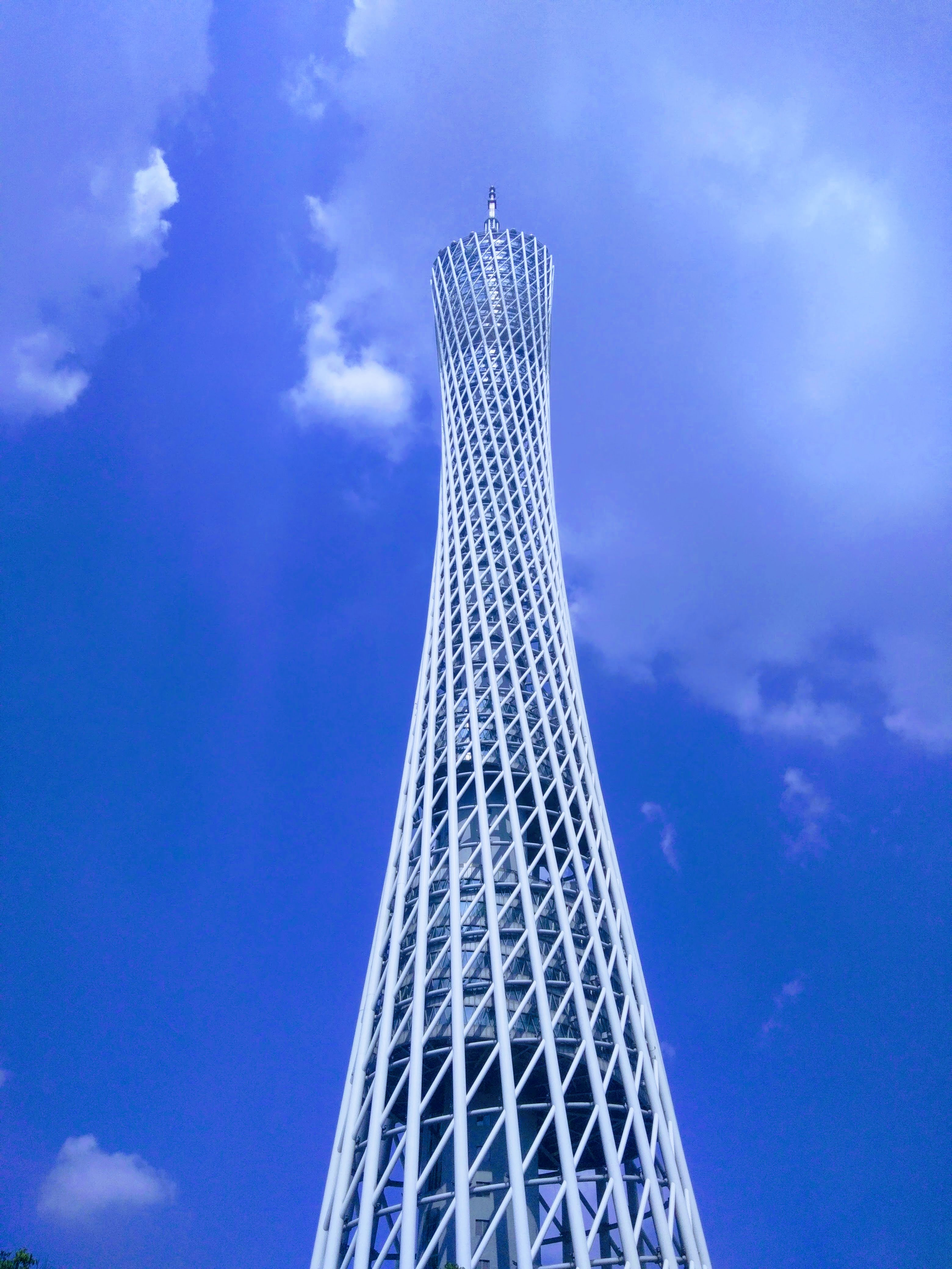
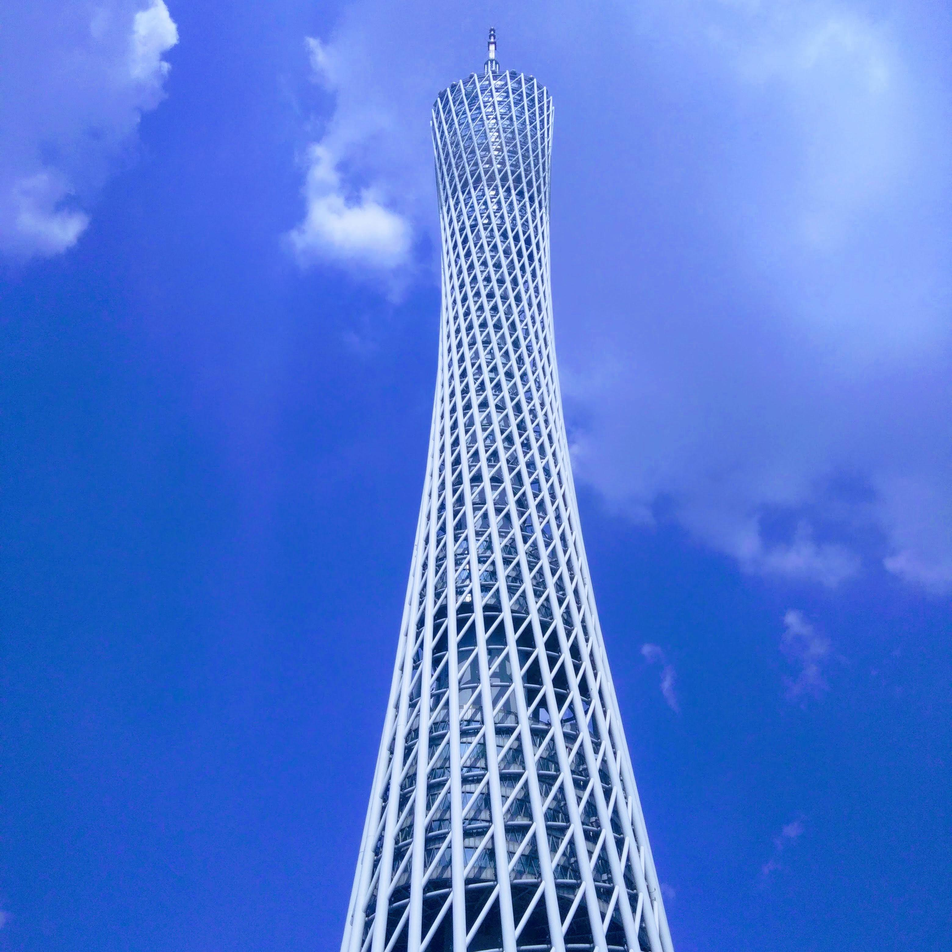
add photos

diff --git a/tool.py b/tool.py
@@ -1,0 +1,255 @@
+#coding: utf-8
+from PIL import Image
+import shutil
+import os
+import sys
+import json
+from datetime import datetime
+#from ImageProcess import Graphics
+
+class Graphics:  
+    '''图片处理类
+    
+    参数
+    -------
+    infile: 输入文件路径
+    outfile: 输出文件路径
+    '''
+    def __init__(self, infile, outfile):
+        self.infile = infile
+        self.outfile = outfile
+
+    def fixed_size(self, width, height):  
+        """按照固定尺寸处理图片"""  
+        im = Image.open(self.infile)  
+        out = im.resize((width, height),Image.ANTIALIAS)  
+        out.save(self.outfile)  
+
+
+    def resize_by_width(self, w_divide_h):  
+        """按照宽度进行所需比例缩放"""  
+        im = Image.open(self.infile)  
+        (x, y) = im.size   
+        x_s = x  
+        y_s = x/w_divide_h  
+        out = im.resize((x_s, y_s), Image.ANTIALIAS)   
+        out.save(self.outfile)  
+
+
+    def resize_by_height(self, w_divide_h):  
+        """按照高度进行所需比例缩放"""  
+        im = Image.open(self.infile)  
+        (x, y) = im.size   
+        x_s = y*w_divide_h  
+        y_s = y  
+        out = im.resize((x_s, y_s), Image.ANTIALIAS)   
+        out.save(self.outfile)  
+
+
+    def resize_by_size(self, size):  
+        """按照生成图片文件大小进行处理(单位KB)"""  
+        size *= 1024  
+        im = Image.open(self.infile)  
+        size_tmp = os.path.getsize(self.infile)  
+        q = 100  
+        while size_tmp > size and q > 0:  
+            print (q)  
+            out = im.resize(im.size, Image.ANTIALIAS)  
+            out.save(self.outfile, quality=q)  
+            size_tmp = os.path.getsize(self.outfile)  
+            q -= 5  
+        if q == 100:  
+            shutil.copy(self.infile, self.outfile)  
+
+  
+    def cut_by_ratio(self):  
+        """按照图片长宽进行分割
+        
+        ------------
+        取中间的部分，裁剪成正方形
+        """  
+        im = Image.open(self.infile)  
+        (x, y) = im.size  
+        if x > y:  
+            region = (int(x/2-y/2), 0, int(x/2+y/2), y)  
+            #裁切图片  
+            crop_img = im.crop(region)  
+            #保存裁切后的图片  
+            crop_img.save(self.outfile)             
+        elif x < y:  
+            region = (0, int(y/2-x/2), x, int(y/2+x/2))
+            #裁切图片  
+            crop_img = im.crop(region)  
+            #保存裁切后的图片  
+            crop_img.save(self.outfile)       
+
+
+# 定义压缩比，数值越大，压缩越小
+SIZE_normal = 1.0
+SIZE_small = 1.5
+SIZE_more_small = 2.0
+SIZE_more_small_small = 3.0
+
+
+def make_directory(directory):
+    """创建目录"""
+    os.makedirs(directory)
+
+def directory_exists(directory):
+    """判断目录是否存在"""
+    if os.path.exists(directory):
+        return True
+    else:
+        return False
+
+def list_img_file(directory):
+    """列出目录下所有文件，并筛选出图片文件列表返回"""
+    old_list = os.listdir(directory)
+    # print old_list
+    new_list = []
+    for filename in old_list:
+        name, fileformat = filename.split(".")
+        if fileformat.lower() == "jpg" or fileformat.lower() == "png" or fileformat.lower() == "gif":
+            new_list.append(filename)
+    # print new_list
+    return new_list
+
+
+def print_help():
+    print("""
+    This program helps compress many image files
+    you can choose which scale you want to compress your img(jpg/png/etc)
+    1) normal compress(4M to 1M around)
+    2) small compress(4M to 500K around)
+    3) smaller compress(4M to 300K around)
+    """)
+
+def compress(choose, des_dir, src_dir, file_list):
+    """压缩算法，img.thumbnail对图片进行压缩，
+    
+    参数
+    -----------
+    choose: str
+            选择压缩的比例，有4个选项，越大压缩后的图片越小
+    """
+    if choose == '1':
+        scale = SIZE_normal
+    if choose == '2':
+        scale = SIZE_small
+    if choose == '3':
+        scale = SIZE_more_small
+    if choose == '4':
+        scale = SIZE_more_small_small
+    for infile in file_list:
+        img = Image.open(src_dir+infile)
+        # size_of_file = os.path.getsize(infile)
+        w, h = img.size
+        img.thumbnail((int(w/scale), int(h/scale)))
+        img.save(des_dir + infile)
+def compress_photo():
+    '''调用压缩图片的函数
+    '''
+    src_dir, des_dir = "/Users/therehello/my/blog_images/photos/", "/Users/therehello/my/blog_images/min_photos/"
+    
+    if directory_exists(src_dir):
+        if not directory_exists(src_dir):
+            make_directory(src_dir)
+        # business logic
+        file_list_src = list_img_file(src_dir)
+    if directory_exists(des_dir):
+        if not directory_exists(des_dir):
+            make_directory(des_dir)
+        file_list_des = list_img_file(des_dir)
+        # print file_list
+    '''如果已经压缩了，就不再压缩'''
+    for i in range(len(file_list_des)):
+        if file_list_des[i] in file_list_src:
+            file_list_src.remove(file_list_des[i])
+    compress('1', des_dir, src_dir, file_list_src)
+
+
+def handle_photo():
+    '''根据图片的文件名处理成需要的json格式的数据
+    
+    -----------
+    最后将data.json文件存到博客的source/photos文件夹下
+    '''
+    src_dir, des_dir = "/Users/therehello/my/blog_images/photos/", "/Users/therehello/my/blog_images/min_photos/"
+    file_list = list_img_file(src_dir)
+    list_info = []
+    for i in range(len(file_list)):
+        filename = file_list[i]
+        date_str, *info = filename.split("_")
+        info='_'.join(info)
+        info, _ = info.split(".")
+        date = datetime.strptime(date_str, "%Y-%m-%d")
+        year_month = date_str[0:7]            
+        if i == 0:  # 处理第一个文件
+            new_dict = {"date": year_month, "arr":{'year': date.year,
+                                                                   'month': date.month,
+                                                                   'link': [filename],
+                                                                   'text': [info],
+                                                                   'type': ['image']
+                                                                   }
+                                        } 
+            list_info.append(new_dict)
+        elif year_month != list_info[-1]['date']:  # 不是最后的一个日期，就新建一个dict
+            new_dict = {"date": year_month, "arr":{'year': date.year,
+                                                   'month': date.month,
+                                                   'link': [filename],
+                                                   'text': [info],
+                                                   'type': ['image']
+                                                   }
+                        }
+            list_info.append(new_dict)
+        else:  # 同一个日期
+            list_info[-1]['arr']['link'].append(filename)
+            list_info[-1]['arr']['text'].append(info)
+            list_info[-1]['arr']['type'].append('image')
+    list_info.reverse()  # 翻转
+    final_dict = {"list": list_info}
+    with open("/Users/therehello/Documents/blog/themes/next/source/lib/album/data.json","w") as fp:
+        json.dump(final_dict, fp)
+def cut_photo():
+    """裁剪算法
+    
+    ----------
+    调用Graphics类中的裁剪算法，将src_dir目录下的文件进行裁剪（裁剪成正方形）
+    """
+    src_dir = "/Users/therehello/my/blog_images/photos/"
+    if directory_exists(src_dir):
+        if not directory_exists(src_dir):
+            make_directory(src_dir)
+        # business logic
+        file_list = list_img_file(src_dir)
+        # print file_list
+        if file_list:
+            print_help()
+            for infile in file_list:
+                img = Image.open(src_dir+infile)
+                Graphics(infile=src_dir+infile, outfile=src_dir + infile).cut_by_ratio()            
+        else:
+            pass
+    else:
+        print("source directory not exist!")     
+
+
+
+def git_operation():
+    
+    os.system('git add --all')
+    os.system('git commit -m "add photos"')
+    os.system('git push origin master')
+
+# if __name__ == "__main__":
+#     cut_photo()        # 裁剪图片，裁剪成正方形，去中间部分
+#     compress_photo()   # 压缩图片，并保存到mini_photos文件夹下
+#     git_operation()    # 提交到github仓库
+#     handle_photo()     # 将文件处理成json格式，存到博客仓库中
+cut_photo()        # 裁剪图片，裁剪成正方形，去中间部分
+compress_photo()   # 压缩图片，并保存到mini_photos文件夹下
+git_operation()    # 提交到github仓库
+handle_photo()     # 将文件处理成json格式，存到博客仓库中   
+    
+    
+    

diff --git a/ImageProcess.py b/ImageProcess.py
@@ -1,0 +1,81 @@
+# coding=utf-8  
+from PIL import Image  
+import shutil  
+import os  
+
+class Graphics:  
+    '''图片处理类
+    
+    参数
+    -------
+    infile: 输入文件路径
+    outfile: 输出文件路径
+    '''
+    def __init__(self, infile, outfile):
+        self.infile = infile
+        self.outfile = outfile
+
+    def fixed_size(self, width, height):  
+        """按照固定尺寸处理图片"""  
+        im = Image.open(self.infile)  
+        out = im.resize((width, height),Image.ANTIALIAS)  
+        out.save(self.outfile)  
+
+
+    def resize_by_width(self, w_divide_h):  
+        """按照宽度进行所需比例缩放"""  
+        im = Image.open(self.infile)  
+        (x, y) = im.size   
+        x_s = x  
+        y_s = x/w_divide_h  
+        out = im.resize((x_s, y_s), Image.ANTIALIAS)   
+        out.save(self.outfile)  
+
+
+    def resize_by_height(self, w_divide_h):  
+        """按照高度进行所需比例缩放"""  
+        im = Image.open(self.infile)  
+        (x, y) = im.size   
+        x_s = y*w_divide_h  
+        y_s = y  
+        out = im.resize((x_s, y_s), Image.ANTIALIAS)   
+        out.save(self.outfile)  
+
+
+    def resize_by_size(self, size):  
+        """按照生成图片文件大小进行处理(单位KB)"""  
+        size *= 1024  
+        im = Image.open(self.infile)  
+        size_tmp = os.path.getsize(self.infile)  
+        q = 100  
+        while size_tmp > size and q > 0:  
+            print (q)  
+            out = im.resize(im.size, Image.ANTIALIAS)  
+            out.save(self.outfile, quality=q)  
+            size_tmp = os.path.getsize(self.outfile)  
+            q -= 5  
+        if q == 100:  
+            shutil.copy(self.infile, self.outfile)  
+
+  
+    def cut_by_ratio(self):  
+        """按照图片长宽进行分割
+        
+        ------------
+        取中间的部分，裁剪成正方形
+        """  
+        im = Image.open(self.infile)  
+        (x, y) = im.size  
+        if x > y:  
+            region = (int(x/2-y/2), 0, int(x/2+y/2), y)  
+            #裁切图片  
+            crop_img = im.crop(region)  
+            #保存裁切后的图片  
+            crop_img.save(self.outfile)             
+        elif x < y:  
+            region = (0, int(y/2-x/2), x, int(y/2+x/2))
+            #裁切图片  
+            crop_img = im.crop(region)  
+            #保存裁切后的图片  
+            crop_img.save(self.outfile)             
+
